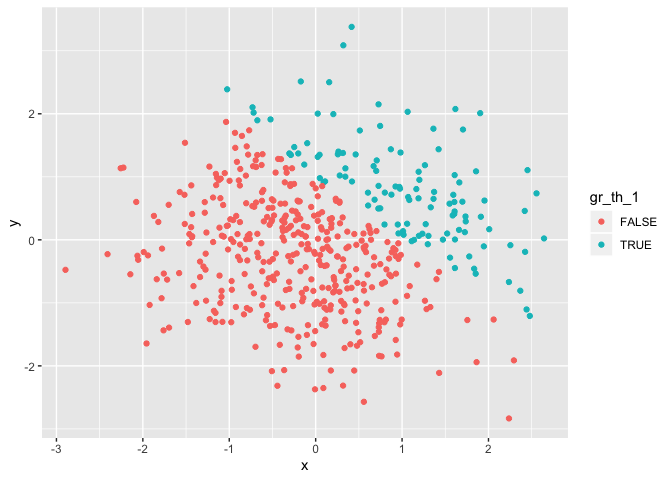
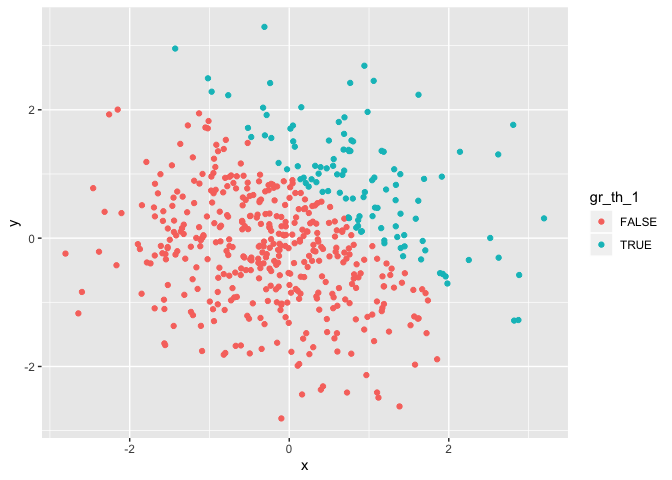
using pull()

diff --git a/p8105-hw1_al3998.md b/p8105-hw1_al3998.md
@@ -1,7 +1,7 @@
 p8105\_hw1\_al3998
 ================
 AimingLiu
-9/14/2019
+9/15/2019
 
 # Problem 1
 
@@ -37,32 +37,32 @@ Here is the second chunk in problem
 
 ``` r
 #convert the logical vector to numeric, and multiply the random sample by the result#
-gr_th_0_num = as.numeric(pr_df$gr_th_0)
-(gr_th_0_num)*(pr_df$ra_sample)
+gr_th_0_num = as.numeric(pull(pr_df,gr_th_0))
+(gr_th_0_num)*(pull(pr_df,ra_sample))
 ```
 
-    ## [1] 0.01581647 0.28308753 0.67776867 0.10824113 2.06620377 0.00000000
-    ## [7] 0.52675472 0.00000000
+    ## [1] 0.0000000 0.4375470 1.0122700 0.9737998 0.0000000 0.4332450 0.7619209
+    ## [8] 0.0000000
 
 ``` r
 #convert the logical vector to a factor, and multiply the random sample by the result#
-gr_th_0_fac = as.factor(pr_df$gr_th_0)
-(gr_th_0_fac)*(pr_df$ra_sample)
+gr_th_0_fac = as.factor(pull(pr_df,gr_th_0))
+(gr_th_0_fac)*(pull(pr_df,ra_sample))
 ```
 
-    ## Warning in Ops.factor((gr_th_0_fac), (pr_df$ra_sample)): '*' not meaningful
-    ## for factors
+    ## Warning in Ops.factor((gr_th_0_fac), (pull(pr_df, ra_sample))): '*' not
+    ## meaningful for factors
 
     ## [1] NA NA NA NA NA NA NA NA
 
 ``` r
 #convert the logical vector to a factor and then convert the result to numeric, and multiply the random sample by the result#
 gr_th_0_facnum = as.numeric(gr_th_0_fac)
-(gr_th_0_facnum)*(pr_df$ra_sample)
+(gr_th_0_facnum)*(pull(pr_df,ra_sample))
 ```
 
-    ## [1]  0.03163294  0.56617505  1.35553734  0.21648225  4.13240753 -1.43094669
-    ## [7]  1.05350945 -0.06561053
+    ## [1] -0.8685805  0.8750940  2.0245399  1.9475995 -0.5503998  0.8664900
+    ## [7]  1.5238419 -1.4102518
 
 # Problem 2
 
@@ -81,11 +81,11 @@ pr2_df=tibble(
 The size of the data set can be described through the row and column of
 it.The column of the data set is 5 and the row of the data set is 500.
 
-The mean of x can be described as 0.0224533. The median of x can be
-described as 0.0181725. The standard deviation of x can be described as
-0.9881688.
+The mean of x can be described as -0.0347499. The median of x can be
+described as -0.0572553. The standard deviation of x can be described as
+1.016899.
 
-The proportion of cases for which x+y\>1 can be described as 0.228.
+The proportion of cases for which x+y\>1 can be described as 0.216.
 
 ### The scatterplot of y vs x
 
